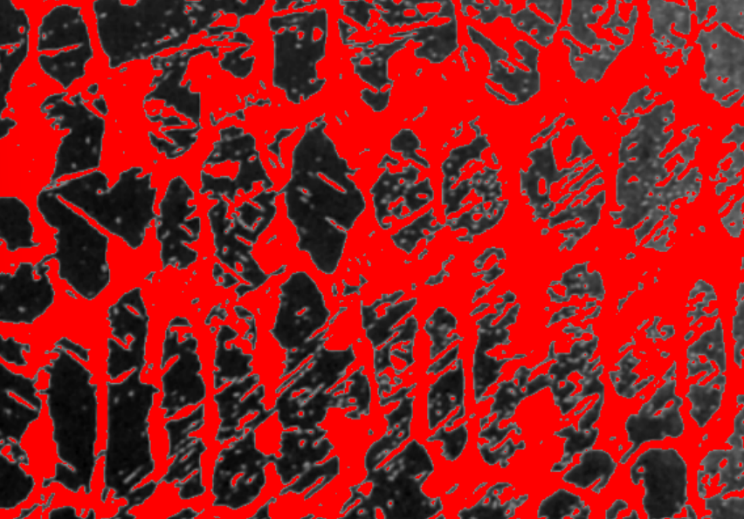
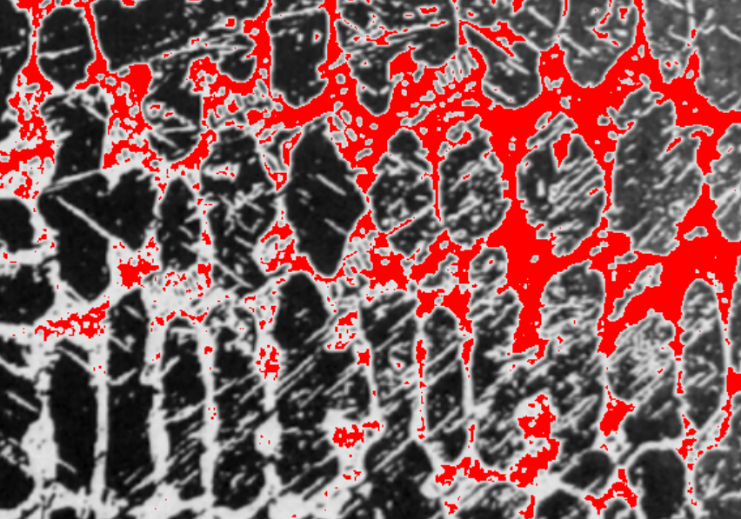
sim 3 updated image, Add form, update mathcing with form input

diff --git a/Simulator3.html b/Simulator3.html
@@ -28,8 +28,38 @@
             padding: 5px;
         }
 
+        .img-caption {
+            margin-top: 5px;
+            color: #722F37;
+        }
+        #submitBtn{
+            background-color: #722F37;
+        }
+
         p {
             margin-bottom: 0;
+        }
+
+        /* Change the color of the range slider track */
+        input[type="range"]::-webkit-slider-runnable-track {
+            background-color: #722F37;
+            /* Change to your desired color */
+        }
+
+        input[type="range"]::-moz-range-progress {
+            background-color: #722F37;
+            /* Change to your desired color */
+        }
+
+        /* Change the color of the slider thumb */
+        input[type="range"]::-webkit-slider-thumb {
+            background-color: #e74c3c;
+            /* Change to your desired color */
+        }
+
+        input[type="range"]::-moz-range-thumb {
+            background-color: #e74c3c;
+            /* Change to your desired color */
         }
     </style>
 </head>
@@ -49,11 +79,13 @@
                 estimate for the fraction of pearlite?
             </h5>
             <div class="col-md-6">
+                <h5 class="img-caption">Microstructure</h5>
                 <img src="s3img/Original.jpg" alt="Original Image" class="original-image" />
             </div>
 
             <div class="col-md-6">
 
+                <h5 class="img-caption">Predicted Threshold Microstructure</h5>
                 <!-- Options -->
                 <div id="options">
                     <img src="s3img/OptionA.png" class="option-img" alt="Option A" data-option="A">
@@ -64,51 +96,67 @@
                     <img src="s3img/OptionF.png" class="option-img" alt="Option F" data-option="F">
                     <img src="s3img/OptionG.png" class="option-img" alt="Option G" data-option="G">
                 </div>
-                <label for="customRange2" class="form-label">Using the slider and thresholding. determine the concentration of ledeburite verses pearlite in hypoeutectic micrograph. </label>
+                <label for="customRange2" class="form-label">Using the slider and thresholding. determine the
+                    concentration of ledeburite verses pearlite in hypoeutectic micrograph. </label>
                 <input type="range" class="form-range" min="0" max="6" id="customRange2" value="0">
 
                 <!-- Option Details -->
                 <div id="option-details">
                     <!-- Option A details -->
                     <div id="option-A-details">
-                        <p class="num-values">Threshold pixel: 149</p>
-                        <p class="num-values">Vol.% of black region: 16.60%</p>
+                        <p class="num-values">Threshold pixel: 152</p>
+                        <p class="num-values">Vol. fraction of pearlite phase: 10.11%</p>
                     </div>
 
                     <!-- Option B details -->
                     <div id="option-B-details">
-                        <p class="num-values">Threshold pixel: 96</p>
-                        <p class="num-values">Vol.% of black region: 48.96%</p>
+                        <p class="num-values">Threshold pixel: 149</p>
+                        <p class="num-values">Vol. fraction of pearlite phase: 16.60%</p>
                     </div>
 
                     <!-- Option C details -->
                     <div id="option-C-details">
-                        <p class="num-values">Threshold pixel: 62</p>
-                        <p class="num-values">Vol.% of black region: 64.51%</p>
+                        <p class="num-values">Threshold pixel: 144</p>
+                        <p class="num-values">Vol. fraction of pearlite phase: 24.91%</p>
                     </div>
 
                     <!-- Option D details -->
                     <div id="option-D-details">
                         <p class="num-values">Threshold pixel: 120</p>
-                        <p class="num-values">Vol.% of black region: 39.36%</p>
+                        <p class="num-values">Vol. fraction of pearlite phase: 39.36%</p>
                     </div>
 
                     <!-- Option E details -->
                     <div id="option-E-details">
-                        <p class="num-values">Threshold pixel: 152</p>
-                        <p class="num-values">Vol.% of black region: 10.11%</p>
+                        <p class="num-values">Threshold pixel: 96</p>
+                        <p class="num-values">FracVol. fraction of pearlite phasetion: 48.96%</p>
                     </div>
 
                     <!-- Option F details -->
                     <div id="option-F-details">
-                        <p class="num-values">Threshold pixel: 41</p>
-                        <p class="num-values">Vol.% of black region: 78.88%</p>
+                        <p class="num-values">Threshold pixel: 62</p>
+                        <p class="num-values">Vol. fraction of pearlite phase: 64.51%</p>
                     </div>
                     <!-- Option G details -->
                     <div id="option-G-details">
-                        <p class="num-values">Threshold pixel: 144</p>
-                        <p class="num-values">Vol.% of black region: 24.91%</p>
+                        <p class="num-values">Threshold pixel: 41</p>
+                        <p class="num-values">Vol. fraction of pearlite phase: 78.88%</p>
                     </div>
+                </div>
+            </div>
+
+            <div class="row">
+                <div class="col-md-6 col-sm-12">
+                    <form id="pearliteForm" class="my-3">
+                        <div class="form-group">
+                            <label for="pearliteFraction">Enter Vol. fraction of pearlite phase:</label>
+                            <input type="text" class="form-control" id="pearliteFraction" placeholder="e.g., 15.66"
+                                required autocomplete="off">
+                            <small class="form-text text-muted">Please enter a number with a decimal point without including "%".</small>
+                        </div>
+                        <button type="submit" class="btn btn-primary" id="submitBtn">Submit</button>
+
+                    </form>
                 </div>
             </div>
         </div>
@@ -170,8 +218,6 @@
 
 
 
-
-    <!-- Working for only A -->
     <script>
         // Function to show/hide option details based on selected option
         function showOption(option) {
@@ -256,28 +302,57 @@
         const rangeInput = document.getElementById('customRange2');
         rangeInput.addEventListener('input', handleRangeChange);
 
-        // Event listeners for option image clicks
-        const optionImages = document.querySelectorAll('.option-img');
-        optionImages.forEach((img) => {
-            img.addEventListener('click', function () {
-                const option = img.getAttribute('data-option');
-                const selectedOption = rangeInput.value;
+        // Event listeners for option image clicks for matching 
+        // const optionImages = document.querySelectorAll('.option-img');
+        // optionImages.forEach((img) => {
+        //     img.addEventListener('click', function () {
+        //         const option = img.getAttribute('data-option');
+        //         const selectedOption = rangeInput.value;
 
-                if (option === "C" && selectedOption === "2") {
-                    // Show the correct modal
-                    // $('#correctModal').modal('show');
-                    // Show the quiz completed modal
-                    const quizCompletedModal1 = new bootstrap.Modal(document.getElementById('correctModal'));
-                    quizCompletedModal1.show();
-                } else {
-                    // Show the incorrect modal
-                    // $('#incorrectModal').modal('show');
-                    // Show the quiz completed modal
-                    const quizCompletedModal2 = new bootstrap.Modal(document.getElementById('incorrectModal'));
-                    quizCompletedModal2.show();
-                }
-            });
-        });
+        //         if (option === "C" && selectedOption === "2") {
+        //             // Show the correct modal
+        //             // $('#correctModal').modal('show');
+        //             // Show the quiz completed modal
+        //             const quizCompletedModal1 = new bootstrap.Modal(document.getElementById('correctModal'));
+        //             quizCompletedModal1.show();
+        //         } else {
+        //             // Show the incorrect modal
+        //             // $('#incorrectModal').modal('show');
+        //             // Show the quiz completed modal
+        //             const quizCompletedModal2 = new bootstrap.Modal(document.getElementById('incorrectModal'));
+        //             quizCompletedModal2.show();
+        //         }
+        //     });
+        // });
+
+
+        // code for match the input fields values 
+        // Function to handle form submission
+        function handleFormSubmit(event) {
+            event.preventDefault(); // Prevent the form from actually submitting
+
+            // Get the user-entered fraction from the input field
+            const enteredFraction = parseFloat(document.getElementById('pearliteFraction').value);
+
+            // Define the correct fraction value
+            const correctFraction = 64.51;
+
+            // Check if the entered fraction matches the correct fraction
+            if (Math.abs(enteredFraction - correctFraction) < 0.01) {
+                // Show the correct modal
+                const quizCompletedModal1 = new bootstrap.Modal(document.getElementById('correctModal'));
+                quizCompletedModal1.show();
+            } else {
+                // Show the incorrect modal
+                const quizCompletedModal2 = new bootstrap.Modal(document.getElementById('incorrectModal'));
+                quizCompletedModal2.show();
+            }
+        }
+
+        // Add an event listener to the form for form submission
+        const form = document.getElementById('pearliteForm');
+        form.addEventListener('submit', handleFormSubmit);
+
         // Initial setup
         handleRangeChange();
     </script>
